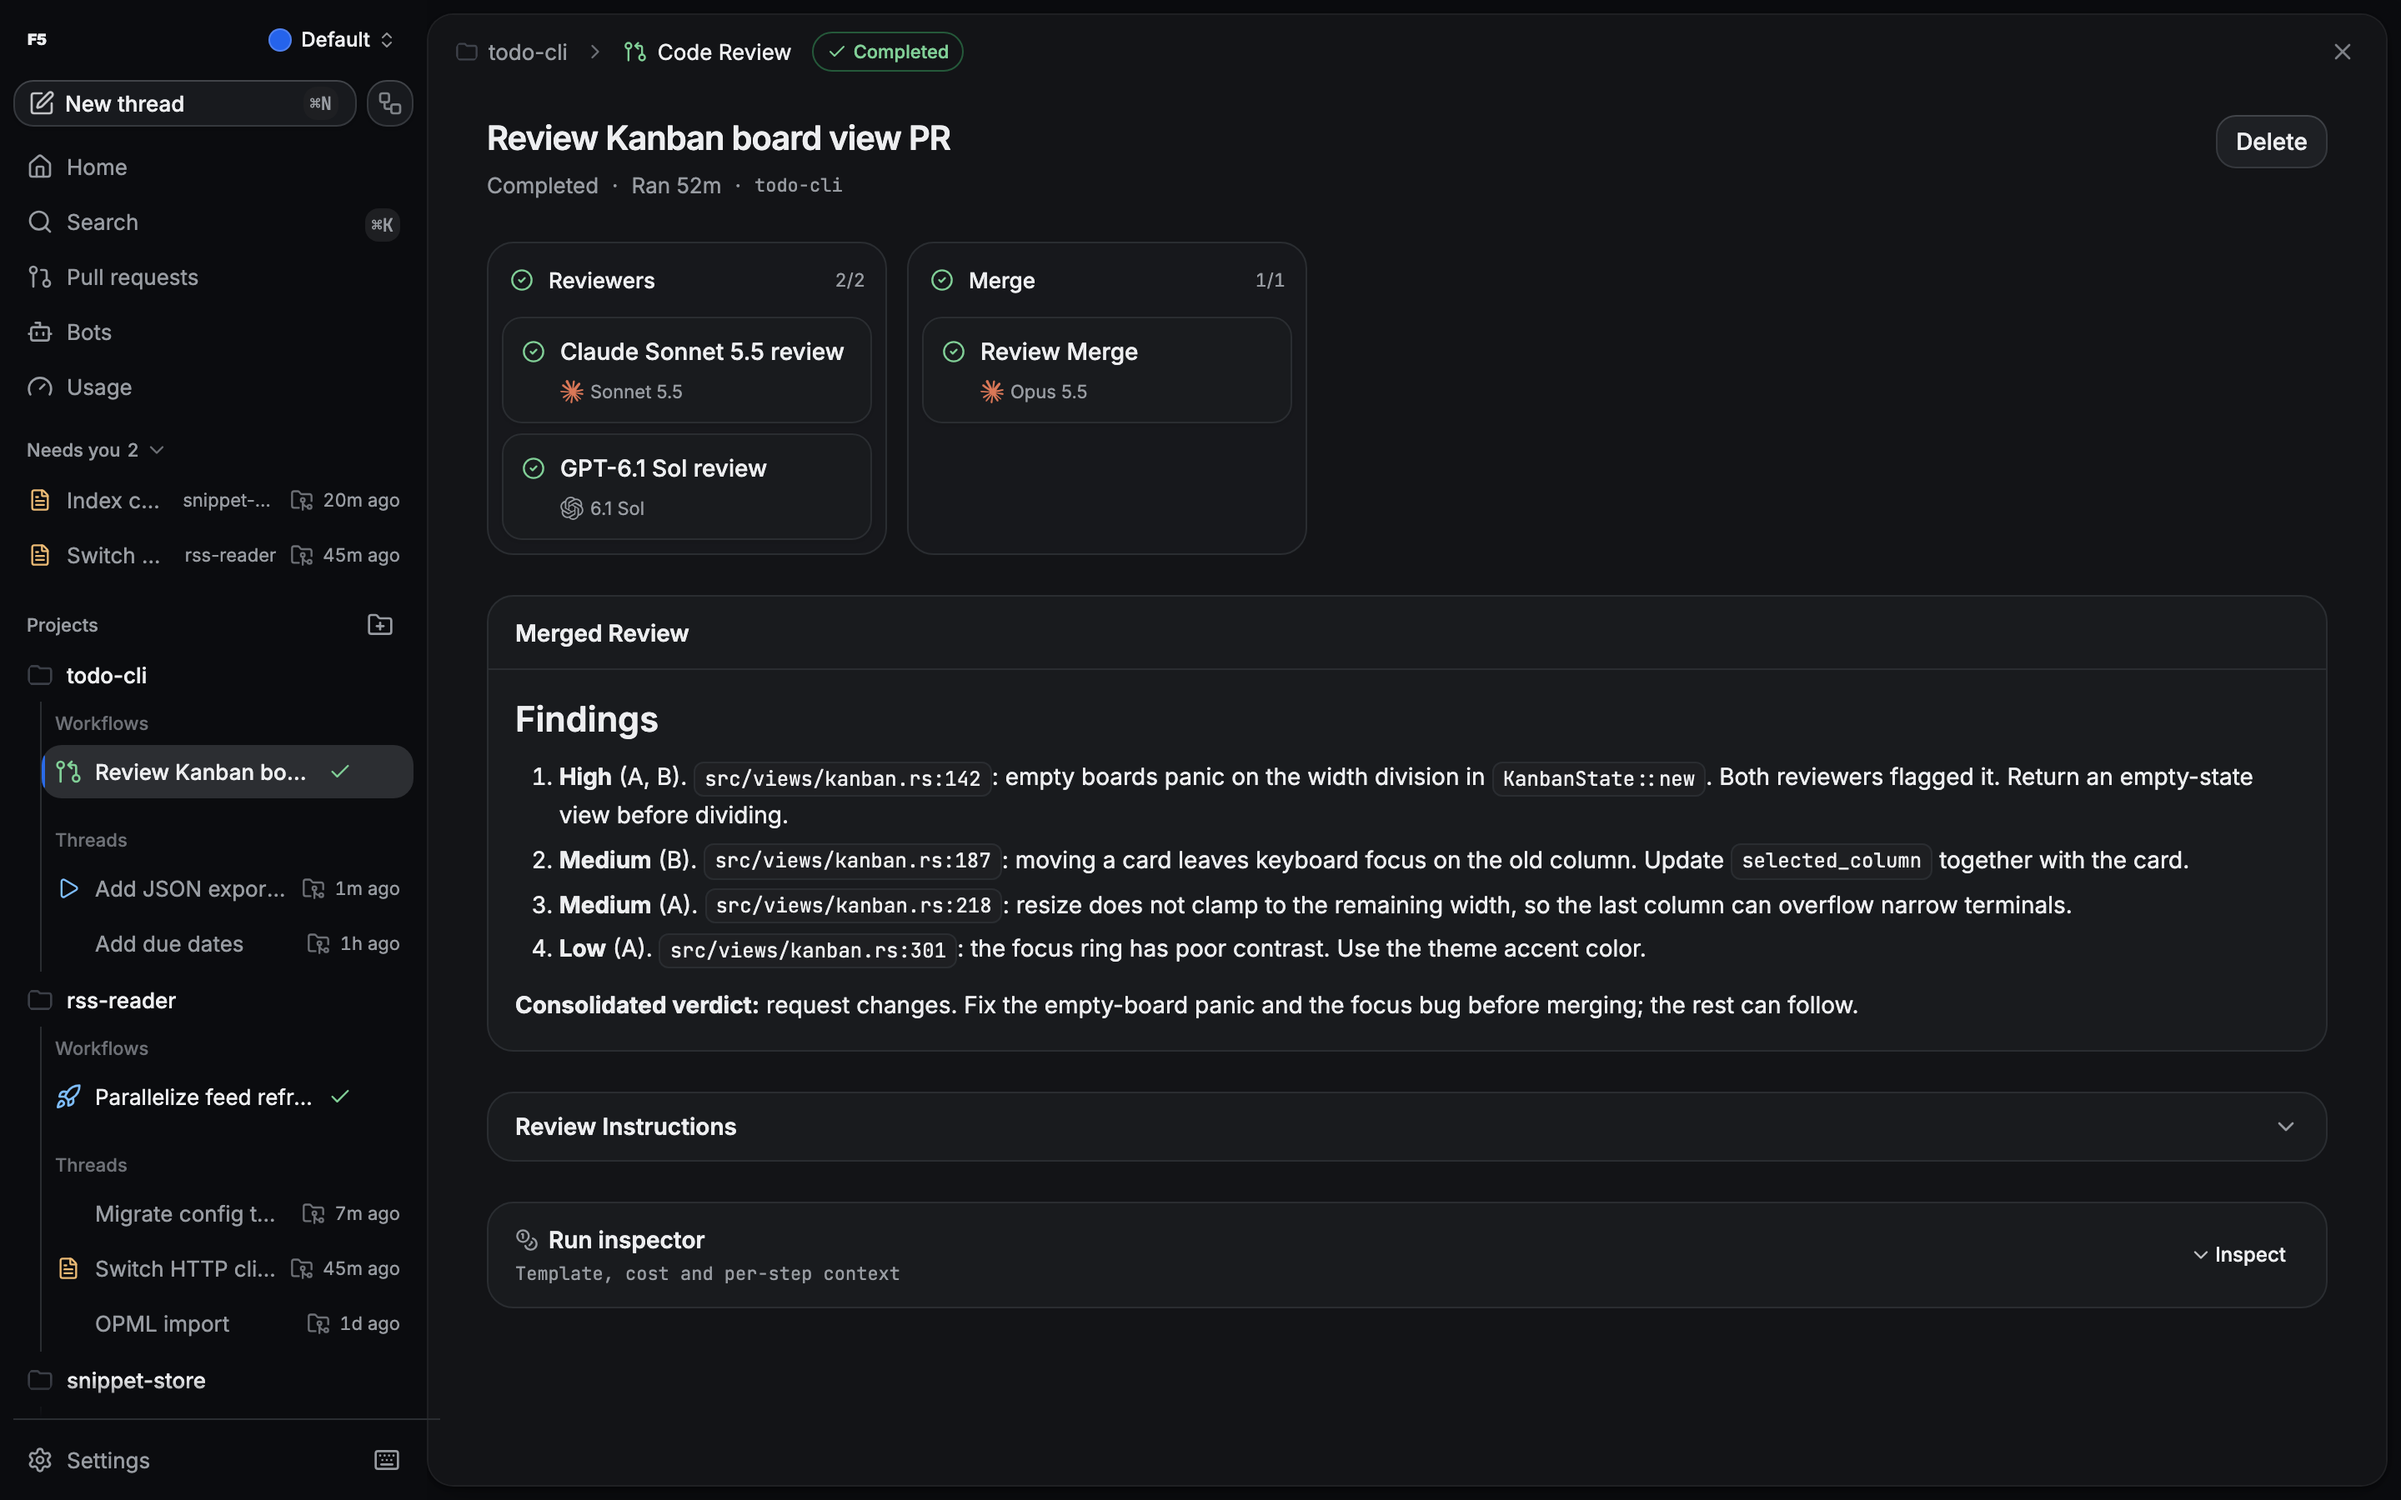
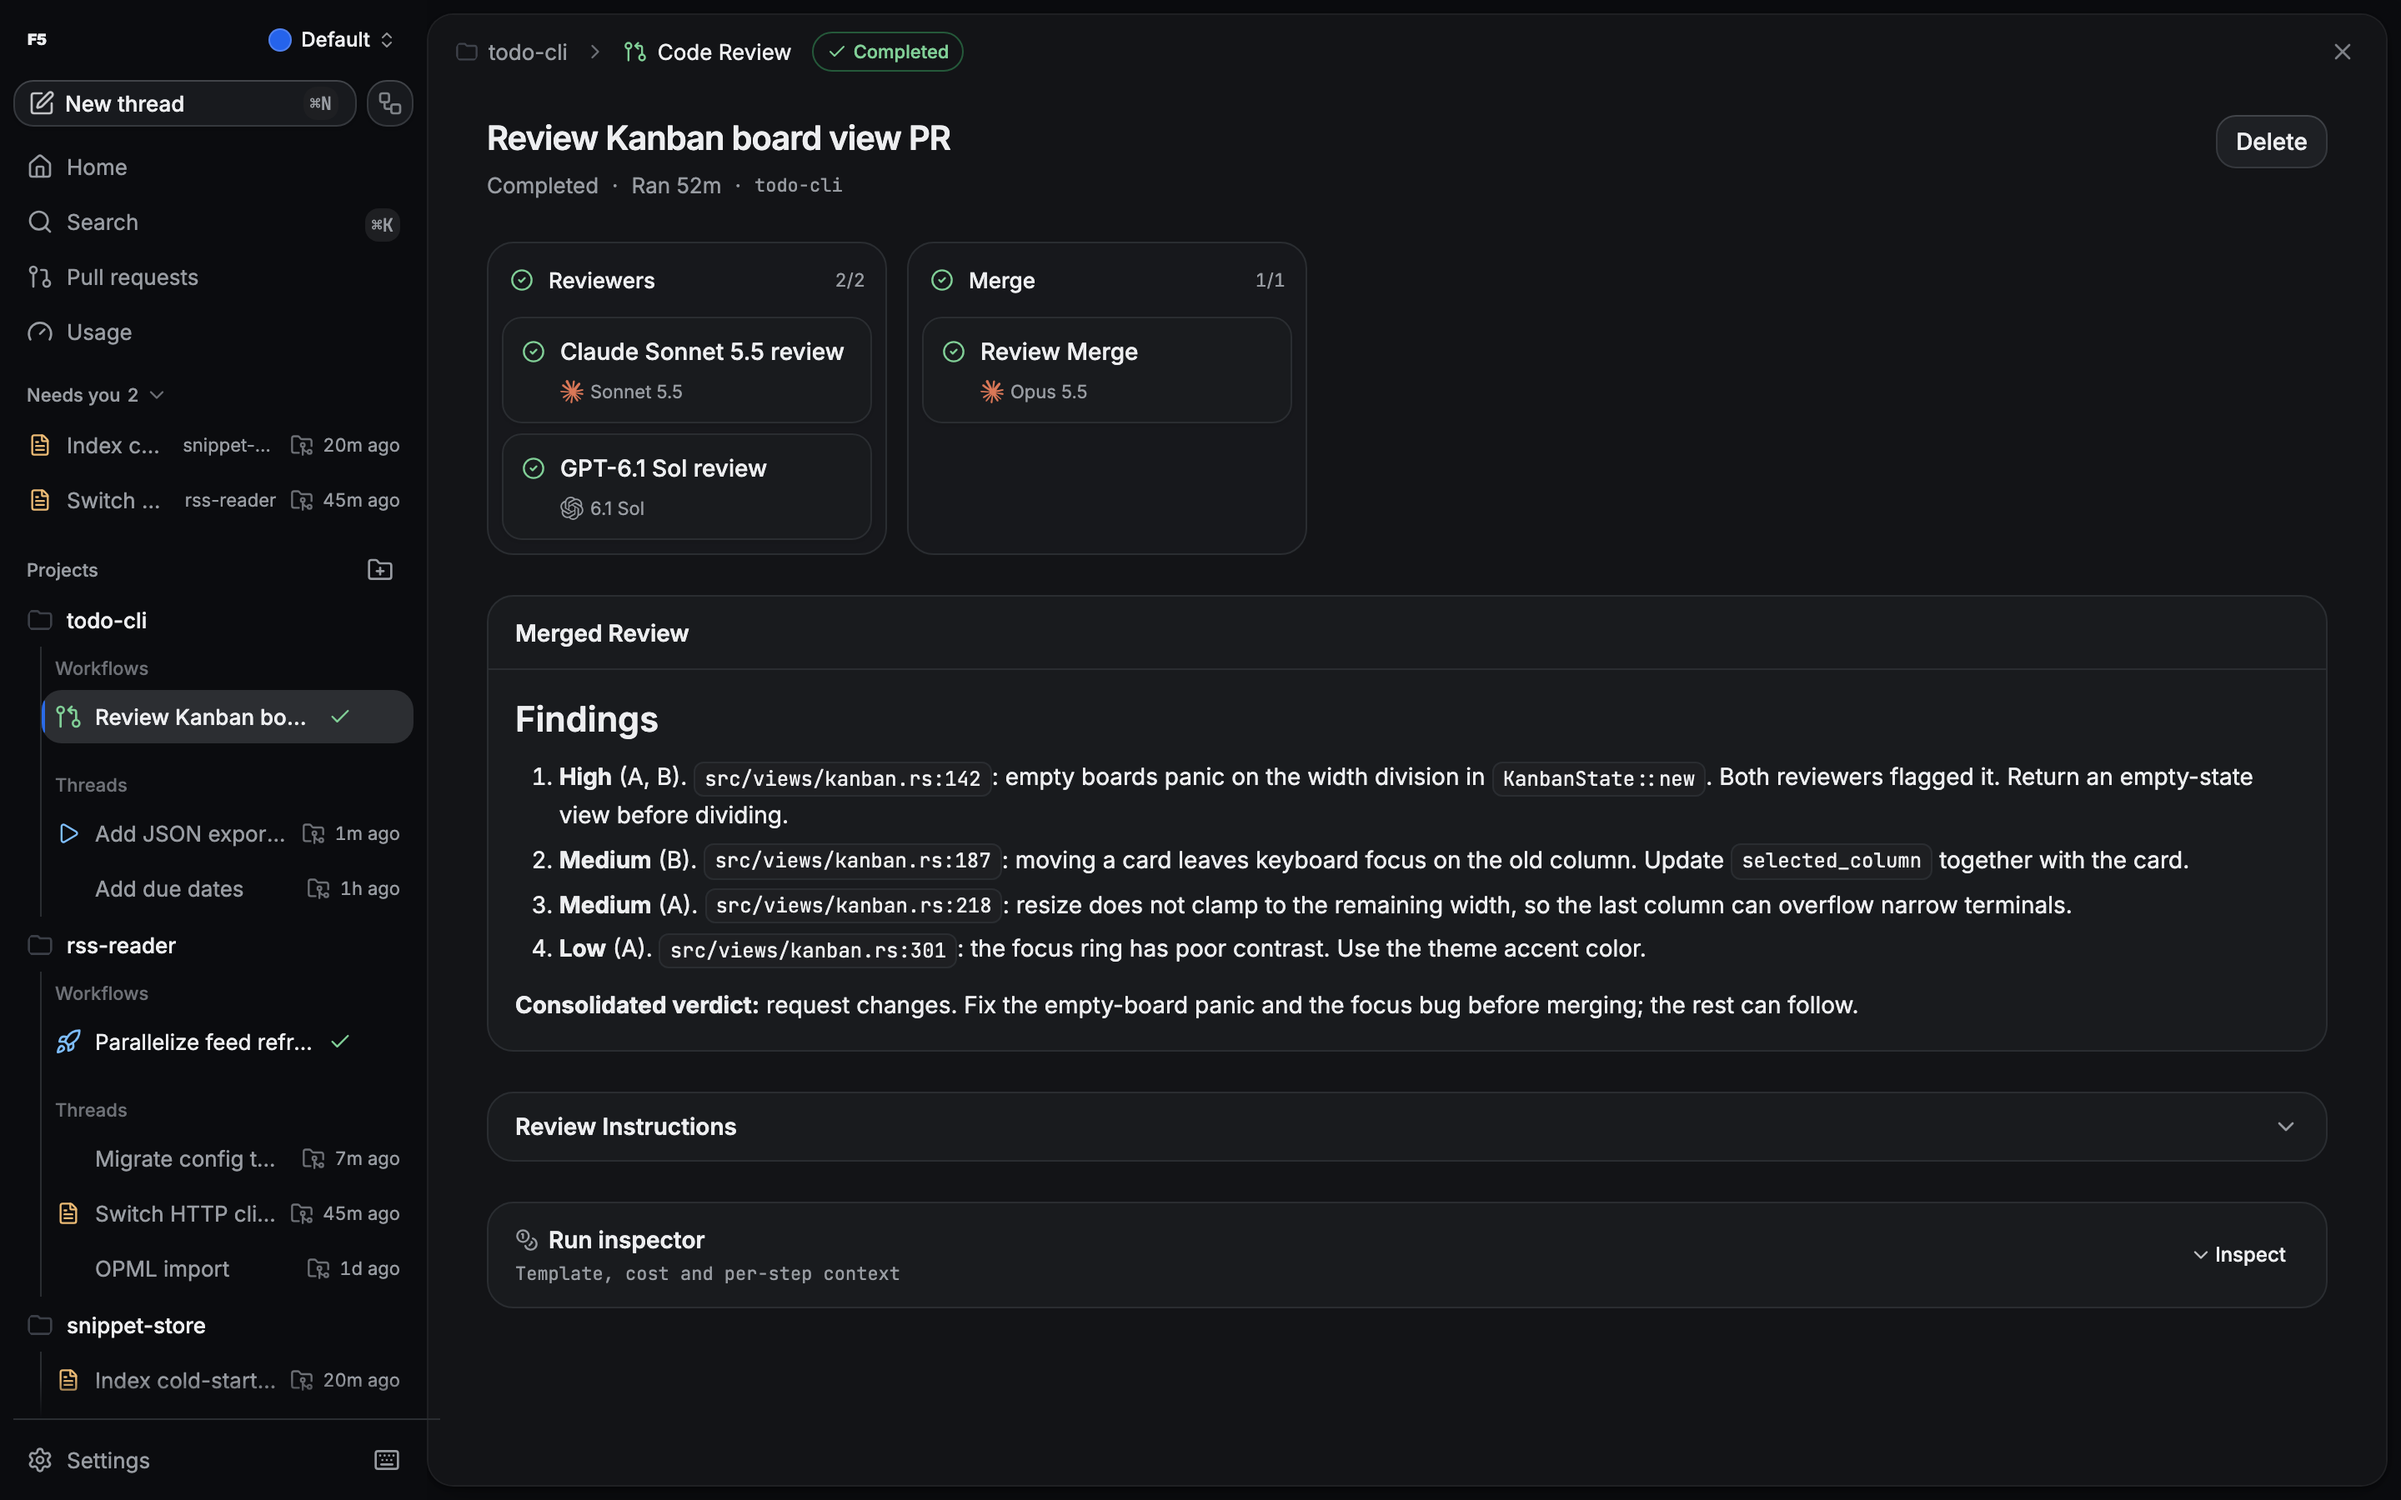
Address PR #150 review findings
- Pass display, Wayland, XAUTHORITY, XDG_RUNTIME_DIR, TEMP and TMP through
  the demo sandbox env, and restore the developer's env in its tests.
- Run the no-turn check after the server stops, drop the log substring
  check, and stage screenshots so a failed capture leaves tracked images
  untouched.
- Use the shared child lifecycle helpers in run-demo for spawn errors and
  repeated signals.
- Clarify restart resumption and workflow plan files in the guides.
- Recapture screenshots now that Bots is hidden.

🤖 Generated with [Claude Code](https://claude.com/claude-code)

diff --git a/scripts/capture-screenshots.ts b/scripts/capture-screenshots.ts
@@ -10,8 +10,9 @@
  *   2. Builds the server and web app (skip with `--skip-build`).
  *   3. Seeds demo data, starts the built server in web mode on loopback and
  *      drives Playwright through `apps/web/scripts/capture-readme-screenshots.mjs`.
- *   4. Verifies that no provider turn was started or replayed while the
- *      server ran.
+ *   4. Stops the server and verifies that no provider turn was started or
+ *      replayed while it ran.
+ *   5. Copies the staged images into the repo only if every step succeeded.
  *
  * The sandbox root is kept after exit for inspection.
  *
@@ -97,8 +98,13 @@ interface DeliverySnapshot {
   readonly maxSequence: number;
 }
 
+// Only queried while the server is not running. A read-only connection cannot
+// open a WAL database after a clean shutdown removed its -wal/-shm files, so
+// open read-write; these helpers only ever SELECT.
+const openDb = (dbPath: string) => new Database(dbPath, { readwrite: true, create: false });
+
 function snapshot(dbPath: string): DeliverySnapshot {
-  const db = new Database(dbPath, { readonly: true });
+  const db = openDb(dbPath);
   try {
     const deliveries = db
       .query<{ count: number }, []>("SELECT COUNT(*) AS count FROM provider_turn_deliveries")
@@ -112,9 +118,11 @@ function snapshot(dbPath: string): DeliverySnapshot {
   }
 }
 
-function noTurnViolations(dbPath: string, before: DeliverySnapshot, serverLog: string): string[] {
+// The database is the source of truth: every turn start, steer or replay
+// leaves a delivery row, an orchestration event or a restart marker.
+function noTurnViolations(dbPath: string, before: DeliverySnapshot): string[] {
   const violations: string[] = [];
-  const db = new Database(dbPath, { readonly: true });
+  const db = openDb(dbPath);
   try {
     const after = snapshot(dbPath);
     if (after.deliveries !== before.deliveries) {
@@ -142,12 +150,9 @@ function noTurnViolations(dbPath: string, before: DeliverySnapshot, serverLog: s
         "SELECT COUNT(*) AS count FROM orchestration_events WHERE sequence > ?",
       )
       .get(before.maxSequence)!.count;
-    log(`server startup appended ${appended} orchestration events`);
+    log(`server appended ${appended} orchestration events`);
   } finally {
     db.close();
-  }
-  if (serverLog.split("\n").some((line) => line.includes("provider delivery"))) {
-    violations.push('server.log mentions "provider delivery"');
   }
   return violations;
 }
@@ -156,6 +161,9 @@ const root = createDemoRoot("f5-screenshots-");
 const stateDir = demoStateDir(root);
 const dbPath = path.join(stateDir, "state.sqlite");
 const serverLogPath = path.join(root, "server.log");
+// Shots land here first, mirroring repo-relative paths, so a failed run never
+// leaves the tracked images half regenerated.
+const stagingDir = path.join(root, "screenshots");
 const env = isolatedEnv(root);
 let server: ChildProcess | undefined;
 let serverStopping = false;
@@ -163,6 +171,9 @@ let serverError: Error | null = null;
 let serverUnexpectedExit: ChildExit | null = null;
 let capture: ChildProcess | undefined;
 let failed = false;
+// Taken after seeding. The no-turn check compares against it once the server
+// has stopped, so it also covers anything written during shutdown.
+let seededSnapshot: DeliverySnapshot | null = null;
 
 // A signal only records the interrupt and stops the browser so the main flow
 // unblocks; the `finally` below owns all other cleanup, so the server is
@@ -227,6 +238,7 @@ try {
   checkInterrupted();
   if (seeded.status !== 0) throw new Error(`seed-demo failed with exit code ${seeded.status}`);
   const before = snapshot(dbPath);
+  seededSnapshot = before;
   log(`seeded ${before.deliveries} delivery rows, max event sequence ${before.maxSequence}`);
 
   const port = await freePort();
@@ -287,7 +299,7 @@ try {
   }
   log(`server ready at ${baseUrl}`);
 
-  capture = spawn("node", ["scripts/capture-readme-screenshots.mjs", baseUrl, REPO_ROOT], {
+  capture = spawn("node", ["scripts/capture-readme-screenshots.mjs", baseUrl, stagingDir], {
     cwd: WEB_DIR,
     stdio: "inherit",
     env: browserEnv,
@@ -304,12 +316,6 @@ try {
   // A server that died during capture invalidates the screenshots even if the
   // browser happened to finish.
   checkServerAlive();
-
-  const violations = noTurnViolations(dbPath, before, serverLogText());
-  for (const violation of violations)
-    console.error(`[screenshots] no-turn check failed: ${violation}`);
-  if (violations.length > 0) failed = true;
-  else log("no-turn checks passed");
 } catch (error) {
   if (!(error instanceof Interrupted)) {
     failed = true;
@@ -323,6 +329,30 @@ try {
   // a crash) means the server did not shut down cleanly.
   if (server?.signalCode && server.signalCode !== "SIGTERM") failed = true;
   if (capture?.signalCode && !interrupted) failed = true;
+  // Runs after any seeded run, including a failed capture, so a turn started
+  // along the way is always reported.
+  try {
+    if (seededSnapshot && !interrupted) {
+      const violations = noTurnViolations(dbPath, seededSnapshot);
+      for (const violation of violations)
+        console.error(`[screenshots] no-turn check failed: ${violation}`);
+      if (violations.length > 0) failed = true;
+      else log("no-turn checks passed");
+    }
+    if (seededSnapshot && !interrupted && !failed) {
+      fs.cpSync(stagingDir, REPO_ROOT, { recursive: true });
+      for (const file of fs.readdirSync(stagingDir, { recursive: true, withFileTypes: true })) {
+        if (file.isFile()) {
+          log(`wrote ${path.relative(stagingDir, path.join(file.parentPath, file.name))}`);
+        }
+      }
+    } else {
+      log("tracked screenshots left unchanged");
+    }
+  } catch (error) {
+    failed = true;
+    console.error(`[screenshots] ${error instanceof Error ? error.message : String(error)}`);
+  }
   log(`sandbox kept at ${root}`);
 }
 

diff --git a/scripts/demo-sandbox.test.ts b/scripts/demo-sandbox.test.ts
@@ -7,6 +7,7 @@ import { afterEach, describe, expect, it } from "vitest";
 
 import {
   DEMO_SERVER_SETTINGS,
+  PASSTHROUGH_KEYS,
   createDemoRoot,
   isolatedEnv,
   writeDemoSettings,
@@ -14,9 +15,16 @@ import {
 
 const roots: string[] = [];
 const PLANTED = ["OPENAI_API_KEY", "ANTHROPIC_API_KEY", "META_API_KEY", "GH_TOKEN", "CODEX_HOME"];
+// Tests overwrite these, so restore the developer's real values afterwards.
+const ORIGINAL_ENV = Object.fromEntries(
+  [...PLANTED, ...PASSTHROUGH_KEYS].map((key) => [key, process.env[key]]),
+);
 afterEach(() => {
   for (const root of roots.splice(0)) rmSync(root, { recursive: true, force: true });
-  for (const key of PLANTED) delete process.env[key];
+  for (const [key, value] of Object.entries(ORIGINAL_ENV)) {
+    if (value === undefined) delete process.env[key];
+    else process.env[key] = value;
+  }
 });
 
 function freshRoot(): string {
@@ -48,6 +56,24 @@ describe("demo sandbox", () => {
     expect(env.F5_STATE_DIR).toBe(Path.join(root, "state"));
     expect(env.T3CODE_STATE_DIR).toBe(Path.join(root, "state"));
     expect(env.F5_SKIP_USERDATA_IMPORT).toBe("1");
+  });
+
+  it("passes through display, temp and shell variables", () => {
+    // Create the root first: TMPDIR, TEMP and TMP steer os.tmpdir().
+    const root = freshRoot();
+    for (const key of PASSTHROUGH_KEYS) process.env[key] = `value-of-${key}`;
+    const env = isolatedEnv(root);
+    for (const key of [
+      "PATH",
+      "TEMP",
+      "TMP",
+      "DISPLAY",
+      "WAYLAND_DISPLAY",
+      "XAUTHORITY",
+      "XDG_RUNTIME_DIR",
+    ]) {
+      expect(env[key]).toBe(`value-of-${key}`);
+    }
   });
 
   it("keeps a child process's home and app-data resolution inside the root", () => {

diff --git a/scripts/run-demo.ts b/scripts/run-demo.ts
@@ -21,6 +21,7 @@
 import { spawn, spawnSync } from "node:child_process";
 import * as FS from "node:fs";
 import * as Path from "node:path";
+import { isRunning, waitForChild } from "./lib/child-lifecycle.ts";
 import {
   createDemoRoot,
   demoStateDir,
@@ -103,16 +104,24 @@ const desktop = spawn("bun", ["run", "scripts/start-electron.mjs"], {
   env,
 });
 
+// Forward every signal while the app runs, so a second Ctrl+C still reaches a
+// child that ignored the first.
 const forwardSignal = (signal: NodeJS.Signals) => {
-  if (!desktop.killed) {
-    desktop.kill(signal);
-  }
+  if (isRunning(desktop)) desktop.kill(signal);
 };
 process.on("SIGINT", () => forwardSignal("SIGINT"));
 process.on("SIGTERM", () => forwardSignal("SIGTERM"));
 
-desktop.on("exit", (code, signal) => {
+try {
+  const { code, signal } = await waitForChild(desktop);
   console.log(`\n[run-demo] desktop exited (code=${code ?? "null"}, signal=${signal ?? "null"})`);
+  process.exitCode = code ?? 0;
+} catch (error) {
+  console.error(
+    `[run-demo] could not launch the desktop app: ${error instanceof Error ? error.message : String(error)}`,
+  );
+  process.exitCode = 1;
+} finally {
   console.log(`[run-demo] demo data kept at ${DEMO_ROOT}`);
-  process.exit(code ?? 0);
-});
+}
+process.exit();

diff --git a/scripts/lib/demo-sandbox.ts b/scripts/lib/demo-sandbox.ts
@@ -33,8 +33,22 @@ export function createDemoRoot(prefix: string): string {
 }
 
 // Non-secret variables a child needs to start processes. The Windows entries
-// let child processes resolve executables and shells.
-const PASSTHROUGH_KEYS = ["PATH", "TMPDIR", "LANG", "PATHEXT", "SystemRoot", "ComSpec"] as const;
+// let child processes resolve executables, shells and a writable temp dir; the
+// display entries let Electron reach the graphical session on Linux.
+export const PASSTHROUGH_KEYS = [
+  "PATH",
+  "TMPDIR",
+  "TEMP",
+  "TMP",
+  "LANG",
+  "PATHEXT",
+  "SystemRoot",
+  "ComSpec",
+  "DISPLAY",
+  "WAYLAND_DISPLAY",
+  "XAUTHORITY",
+  "XDG_RUNTIME_DIR",
+] as const;
 
 export function isolatedEnv(
   root: string,

diff --git a/docs/user/threads-and-workspaces.md b/docs/user/threads-and-workspaces.md
@@ -22,7 +22,7 @@ The composer also takes attachments ([attachments and media](attachments-and-med
 
 - **Approvals and questions.** In Supervised and Auto-accept edits modes the agent stops for approval; questions from the agent appear in the thread and wait for your answer.
 - **Steer or stop.** Where the provider supports it, a message sent during a running turn can steer that turn instead of waiting. **Settings → Threads → Follow-up behavior** chooses between queueing follow-ups and steering. **Stop generation** ends the turn.
-- **Next-turn queue.** Queued messages appear above the composer. You can pause the queue, drag a turn to reorder it or move it to the top, run one now, edit, duplicate or cancel it. The queue is stored on the server, so it survives restarts; a turn that was running during a restart comes back as "Resuming after restart".
+- **Next-turn queue.** Queued messages appear above the composer. You can pause the queue, drag a turn to reorder it or move it to the top, run one now, edit, duplicate or cancel it. The queue is stored on the server, so it survives restarts. A turn that was running during a restart only comes back as "Resuming after restart" if **Settings → Threads → Resume active turns after restart** is on (off by default; projects can override it).
 
 ## Find your work
 

diff --git a/docs/user/workflows.md b/docs/user/workflows.md
@@ -44,7 +44,7 @@ Document authors must use different provider and model pairs, and so must the tw
 
 ## Review and implement a Feature plan
 
-A Feature run stops after the merge. Read the merged plan on the workflow page; nothing has changed in your repository yet.
+A Feature run stops after the merge. Read the merged plan on the workflow page. So far only the plan files under the plans directory have been written; no code has changed.
 
 <p align="center">
   <img src="../../assets/screenshots/workflow.png" alt="Finished Feature workflow showing its phase board and the merged plan" width="800" />
